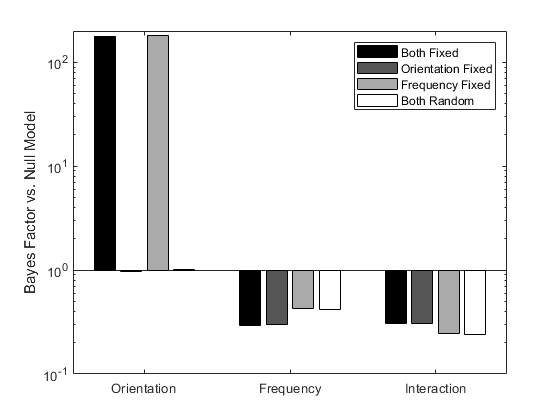
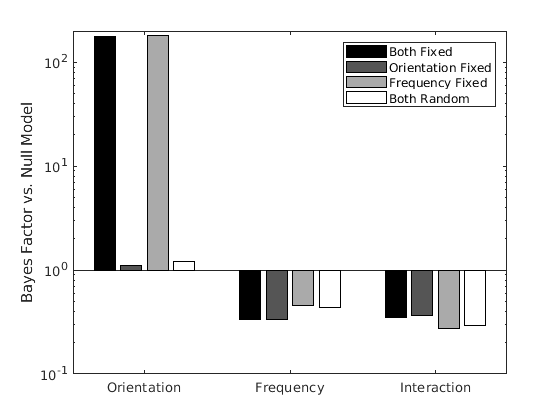
Updated documentation

diff --git a/docs/index.html b/docs/index.html
@@ -6,7 +6,7 @@
    <!--
 This HTML was auto-generated from MATLAB code.
 To make changes, update the MATLAB code and republish this document.
-      --><title>Getting Started with the bayesFactor Toolbox</title><meta name="generator" content="MATLAB 9.5"><link rel="schema.DC" href="http://purl.org/dc/elements/1.1/"><meta name="DC.date" content="2019-01-28"><meta name="DC.source" content="gettingStarted.m"><style type="text/css">
+      --><title>Getting Started with the bayesFactor Toolbox</title><meta name="generator" content="MATLAB 9.6"><link rel="schema.DC" href="http://purl.org/dc/elements/1.1/"><meta name="DC.date" content="2019-11-30"><meta name="DC.source" content="gettingStarted.m"><style type="text/css">
 html,body,div,span,applet,object,iframe,h1,h2,h3,h4,h5,h6,p,blockquote,pre,a,abbr,acronym,address,big,cite,code,del,dfn,em,font,img,ins,kbd,q,s,samp,small,strike,strong,sub,sup,tt,var,b,u,i,center,dl,dt,dd,ol,ul,li,fieldset,form,label,legend,table,caption,tbody,tfoot,thead,tr,th,td{margin:0;padding:0;border:0;outline:0;font-size:100%;vertical-align:baseline;background:transparent}body{line-height:1}ol,ul{list-style:none}blockquote,q{quotes:none}blockquote:before,blockquote:after,q:before,q:after{content:'';content:none}:focus{outine:0}ins{text-decoration:none}del{text-decoration:line-through}table{border-collapse:collapse;border-spacing:0}
 
 html { min-height:100%; margin-bottom:1px; }
@@ -66,7 +66,7 @@ table td { padding:7px 5px; text-align:left; vertical-align:top; border:1px soli
 
 
 
-  </style></head><body><div class="content"><h1>Getting Started with the bayesFactor Toolbox</h1><!--introduction--><!--/introduction--><h2>Contents</h2><div><ul><li><a href="#1">Description</a></li><li><a href="#2">Authors &amp; Sources</a></li><li><a href="#3">System Requirements</a></li><li><a href="#4">Features</a></li><li><a href="#5">Installation</a></li><li><a href="#6">Examples</a></li><li><a href="#7">Single sample T-Test</a></li><li><a href="#9">Paired T-Test</a></li><li><a href="#12">ANOVA</a></li><li><a href="#19">Figures from Rouder et al. 2012</a></li><li><a href="#22">Bayes Factor Design Analysis - Figures from Schoenbrodt &amp; Wagenmakers</a></li></ul></div><h2 id="1">Description</h2><p>Bayesian statistical analysis can help to design experiments that lead to compelling evidence and to quantify the evidence in favor or against a  hypothesis, based on a dataset.</p><p>This toolbox provides easy-to-use functions to replace (or complement) standard tools for experimental design (e.g. power analysis)  and hypothesis testing (e.g. ttest, anova).</p><h2 id="2">Authors &amp; Sources</h2><p>The code was written by Bart Krekelberg (<a href="mailto:bart@vision.rutgers.edu">bart@vision.rutgers.edu</a>) with some code taken from Sam Schwarzkopf's code and with inspiration from the R package by Richard Morey.</p><p>The mathematical underpinning of these analyzes can be found in the following papers:</p><div><ul><li>Rouder, J. N., Morey, R. D., Speckman, P. L. &amp; Province, J. M. Default Bayes factors for ANOVA designs. J. Math. Psychol. 56, 356&#8211;374 (2012).</li><li>Kass, R. E. &amp; Raftery, A. E. Bayes factors. J. Am. Stat. Soc. 90, 733&#8211;795 (1995).</li><li>Morey, R. D. &amp; Wagenmakers, E. J. Simple relation between Bayesian order-restricted and point-null hypothesis tests. Stat. Probab. Lett. 92, 121&#8211;124 (2014).</li><li>Schoenbrodt, F. D. &amp; Wagenmakers, E. J. Bayes factor design analysis: Planning for compelling evidence. Psychon. Bull. Rev. 1&#8211;15 (2017). doi:10.3758/s13423-017-1230-y</li></ul></div><h2 id="3">System Requirements</h2><p>This toolbox depends on the Mathworks &lt;https://www.mathworks.com/products/statistics.html Statistics and Machine Learning Toolbox &gt;</p><h2 id="4">Features</h2><p>Currently the following statistical tests have been implemented</p><div><ul><li>One sample t-test  (<tt>bf.ttest</tt>)</li><li>Two sample t-test (<tt>bf.ttest2</tt>)</li><li>N-Way Anova with fixed and random effects  (<tt>bf.anova</tt>)</li><li>Pearson Correlation  (<tt>bf.corr</tt>)</li><li>Binomial Test  (<tt>bf.binom</tt>)</li></ul></div><p>The |bf.designAnalysis |function is used to analyze experimental design (e.g. "power analysis").</p><pre>Note how all user accessible functions in this toolbox are defined inside the 'bf'
+  </style></head><body><div class="content"><h1>Getting Started with the bayesFactor Toolbox</h1><!--introduction--><!--/introduction--><h2>Contents</h2><div><ul><li><a href="#1">Description</a></li><li><a href="#2">Authors &amp; Sources</a></li><li><a href="#3">System Requirements</a></li><li><a href="#4">Features</a></li><li><a href="#5">Installation</a></li><li><a href="#6">Examples</a></li><li><a href="#7">Single sample T-Test</a></li><li><a href="#9">Paired T-Test</a></li><li><a href="#12">ANOVA</a></li><li><a href="#19">Repeated Measurements</a></li><li><a href="#25">Figures from Rouder et al. 2012</a></li><li><a href="#28">Bayes Factor Design Analysis - Figures from Schoenbrodt &amp; Wagenmakers</a></li></ul></div><h2 id="1">Description</h2><p>Bayesian statistical analysis can help to design experiments that lead to compelling evidence and to quantify the evidence in favor or against a  hypothesis, based on a dataset.</p><p>This toolbox provides easy-to-use functions to replace (or complement) standard tools for experimental design (e.g. power analysis)  and hypothesis testing (e.g. ttest, anova).</p><h2 id="2">Authors &amp; Sources</h2><p>The code was written by Bart Krekelberg (<a href="mailto:bart@vision.rutgers.edu">bart@vision.rutgers.edu</a>) with some code taken from Sam Schwarzkopf's code and with inspiration from the R package by Richard Morey.</p><p>The mathematical underpinning of these analyzes can be found in the following papers:</p><div><ul><li>Rouder, J. N., Morey, R. D., Speckman, P. L. &amp; Province, J. M. Default Bayes factors for ANOVA designs. J. Math. Psychol. 56, 356?374 (2012).</li><li>Kass, R. E. &amp; Raftery, A. E. Bayes factors. J. Am. Stat. Soc. 90, 733?795 (1995).</li><li>Morey, R. D. &amp; Wagenmakers, E. J. Simple relation between Bayesian order-restricted and point-null hypothesis tests. Stat. Probab. Lett. 92, 121?124 (2014).</li><li>Schoenbrodt, F. D. &amp; Wagenmakers, E. J. Bayes factor design analysis: Planning for compelling evidence. Psychon. Bull. Rev. 1?15 (2017). doi:10.3758/s13423-017-1230-y</li></ul></div><h2 id="3">System Requirements</h2><p>This toolbox depends on the Mathworks &lt;https://www.mathworks.com/products/statistics.html Statistics and Machine Learning Toolbox &gt;</p><h2 id="4">Features</h2><p>Currently the following statistical tests have been implemented</p><div><ul><li>One sample t-test  (<tt>bf.ttest</tt>)</li><li>Two sample t-test (<tt>bf.ttest2</tt>)</li><li>N-Way Anova with fixed and random effects  (<tt>bf.anova</tt>)</li><li>Pearson Correlation  (<tt>bf.corr</tt>)</li><li>Binomial Test  (<tt>bf.binom</tt>)</li></ul></div><p>The |bf.designAnalysis |function is used to analyze experimental design (e.g. "power analysis").</p><pre>Note how all user accessible functions in this toolbox are defined inside the 'bf'
 package. This avoids naming conflicts with the standard ttest, ttest2 , etc functions.</pre><p>Function inside bf.internal are not meant to be called  directly.</p><h2 id="5">Installation</h2><p>Place all files and folders in their own folder (e.g. bayesFactor) and then add that folder to your Matlab search path.</p><p>The <tt>installBayesFactor.m</tt> function willl do this for you.</p><h2 id="6">Examples</h2><p>These examples build on the examples used in the Statistics and Machine Learning Toolbox for traditional (frequentist) hypothesis testing and shows how they can be complemented with Bayesian analysis.</p><h2 id="7">Single sample T-Test</h2><pre class="codeinput">load <span class="string">stockreturns</span>
 [bf10,p] = bf.ttest(stocks(:,3))
 </pre><pre class="codeoutput">
@@ -116,42 +116,92 @@ ans =
 </pre><pre class="codeoutput">
 bfFull =
 
-   12.2025
+   16.1940
 
 </pre><p>To specifically look at the evidence for a main effect of orientation, we need to compare the Bayes Factor of the full model to a restricted model in which everything except the main effect of orientation is kept.</p><pre class="codeinput">bfRestricted  =   bf.anova(data,<span class="string">'rt~freq +ori:freq'</span>);  <span class="comment">% Keep main of freq and ori:freq interaction.</span>
 </pre><p>The evidence for the main effect is the ratio of the Bayes Factors.</p><pre class="codeinput">bfMain = bfFull/bfRestricted
 </pre><pre class="codeoutput">
 bfMain =
 
-  177.2155
+  177.8409
 
-</pre><p>The evidence is overwhelmingly in favor of a main effect of orientation.</p><h2 id="19">Figures from Rouder et al. 2012</h2><p>Much of the mathematical basis for this package is developed in the Rouder et al. paper. To test the package, I recreated some of the figures in their publication.</p><p>Figure 2 in Rouder et al compares critical T-values for a traditional t-test with a Bayes Factor analysis.</p><pre class="codeinput">rouderFigure2;
+</pre><p>The evidence is overwhelmingly in favor of a main effect of orientation.</p><h2 id="19">Repeated Measurements</h2><p>The experiment Rouder et al describe took repeated measurements from the same subject (for each orientation and frequency), but this is not used in the analysis above. If there was large intersubject variability (e.g. some subjects have an overall slow reaction time) then this could reduce the power of the statistical test to detect an effect of orientation. In the example data set there isn't much variation across subjects, so let's introduce some variation to illustrate this.</p><pre class="codeinput">load <span class="string">rouder2012Data</span>
+slowSubjects = ismember(data.subject,[1 4 6]); <span class="comment">% Lets make subjects 1 4 and 6 slower overall by 0.25s .</span>
+data{slowSubjects,<span class="string">'rt'</span>} = data.rt(slowSubjects)+0.25;
+</pre><p>Calculate the BF and LMM model again</p><pre class="codeinput">[bfFull,modelFull] = bf.anova(data,<span class="string">'rt~ori*freq'</span>);
+bfFull
+anova(modelFull)
+</pre><pre class="codeoutput">
+bfFull =
+
+    0.4967
+
+
+ans = 
+
+
+    ANOVA MARGINAL TESTS: DFMETHOD = 'RESIDUAL'
+
+    Term                 FStat      DF1    DF2    pValue    
+    '(Intercept)'         276.89    1      36     1.7466e-18
+    'ori'                 2.9474    1      36       0.094611
+    'freq'               0.87453    1      36        0.35594
+    'ori:freq'           0.31648    1      36        0.57722
+
+</pre><p>That does not seem right; we did not change how orientation affects RT and yet both the BF and the anova show that the effect is no longer significant.</p><p>Of course, what is missing is a repeated measures approach. With linear mixed models this is done by including an extra term in the model that captures the idiosyncratic offset in the RT for each subject. In the Wilcoxon formula this is written as (1|subject) : fit a constant term (1) for each level of subject.</p><pre class="codeinput">[bfFull,modelFull] = bf.anova(data,<span class="string">'rt~ori*freq + (1|subject)'</span>);
+bfFull
+anova(modelFull)
+</pre><pre class="codeoutput">
+bfFull =
+
+   10.4030
+
+
+ans = 
+
+
+    ANOVA MARGINAL TESTS: DFMETHOD = 'RESIDUAL'
+
+    Term                 FStat     DF1    DF2    pValue    
+    '(Intercept)'        276.89    1      36     1.7466e-18
+    'ori'                5.8533    1      36       0.020727
+    'freq'               1.7367    1      36        0.19588
+    'ori:freq'           0.6285    1      36         0.4331
+
+</pre><p>This shows that after including the intercept term for subjects, the Bayes Factor is increased substantially (as are the F values in the ANOVA).</p><p>Isolating a main effect while using hte repeated measures aspect of the design works analogously:</p><pre class="codeinput">bfRestricted  =   bf.anova(data,<span class="string">'rt~freq +ori:freq + (1|subject)'</span>);
+</pre><p>The evidence for the main effect is the ratio of the Bayes Factors. the difference withbefore is that now both BF have been calculated with the subject random intercept.</p><pre class="codeinput">bfMain = bfFull/bfRestricted
+</pre><pre class="codeoutput">
+bfMain =
+
+  113.8507
+
+</pre><h2 id="25">Figures from Rouder et al. 2012</h2><p>Much of the mathematical basis for this package is developed in the Rouder et al. paper. To test the package, I recreated some of the figures in their publication.</p><p>Figure 2 in Rouder et al compares critical T-values for a traditional t-test with a Bayes Factor analysis.</p><pre class="codeinput">rouderFigure2;
 </pre><img vspace="5" hspace="5" src="gettingStarted_01.png" alt=""> <p>Figure 4 shows Bayes Factor analysis for simulated data with different effect sizes.</p><pre class="codeinput">rouderFigure4(100); <span class="comment">% Use 1000 bootstrap sets .</span>
 </pre><img vspace="5" hspace="5" src="gettingStarted_02.png" alt=""> <p>Figure 5 illustrates the influence of fixed and random effects</p><pre class="codeinput">rouderFigure5;
-</pre><img vspace="5" hspace="5" src="gettingStarted_03.png" alt=""> <h2 id="22">Bayes Factor Design Analysis - Figures from Schoenbrodt &amp; Wagenmakers</h2><p>This paper provides a tutorial treatment of Bayes Factor Design Analysis.  Please see <tt>schoenbrodtFigures.m</tt> for details.</p><pre class="codeinput"><span class="comment">% Figure 3 in S&amp;W analyzes a Fixed-N design for a T-test.</span>
+</pre><img vspace="5" hspace="5" src="gettingStarted_03.png" alt=""> <h2 id="28">Bayes Factor Design Analysis - Figures from Schoenbrodt &amp; Wagenmakers</h2><p>This paper provides a tutorial treatment of Bayes Factor Design Analysis.  Please see <tt>schoenbrodtFigures.m</tt> for details.</p><pre class="codeinput"><span class="comment">% Figure 3 in S&amp;W analyzes a Fixed-N design for a T-test.</span>
 schoenbrodtFigures(3,1000); <span class="comment">% 10000 Monte Carlo sims</span>
 </pre><pre class="codeoutput">***************
 N = 20  100
-False Positives (%): 0.8         0.3
-False Negatives (%): 1.4           0
-True Positives (%) 22         83.5
-True Negatives (%) 20.2         54.8
+False Positives (%): 0.9           1
+False Negatives (%): 0.8           0
+True Positives (%) 18.7         84.8
+True Negatives (%) 19.6         53.2
 **************
 Necessary sample size for 95% success under H1 is Inf
-False Positives (%): 0.6         0.4         0.4         0.3         0.3         0.2         0.5         0.4         0.6         0.4         0.6         0.2         0.4
-False Negatives (%): 0.1           0           0           0           0           0           0           0           0           0           0         0.1           0
-True negative  (%): 53.6         55.3         59.7         62.6         61.4         63.5         61.9         61.9         62.7         63.4         61.6         61.2         63.3
+False Positives (%): 0.8         0.9         0.3         0.6         0.4         0.8         0.7         0.4         0.4         0.8         0.6         0.5         0.2
+False Negatives (%): 0           0           0           0           0           0           0           0         0.1           0           0           0           0
+True negative  (%): 54.7           56         64.9           61         61.2           63         62.5         64.7         59.6         61.4         64.1         60.6         64.9
 </pre><img vspace="5" hspace="5" src="gettingStarted_04.png" alt=""> <p>Figure 4 in S&amp;@ analyzes a Bayes sequential sampling design.</p><pre class="codeinput">schoenbrodtFigures(4,1000); <span class="comment">% 10000 Monte Carlo sims</span>
-</pre><pre class="codeoutput">False Positive Rate: 87%
-False Negative Rate: 1.3%
+</pre><pre class="codeoutput">False Positive Rate: 84.7%
+False Negative Rate: 1.8%
 Median Sample Size (H1): 35
-Median Sample Size (H0): 42
+Median Sample Size (H0): 45
 </pre><img vspace="5" hspace="5" src="gettingStarted_05.png" alt=""> <p>Figure 5 refines the Sequential design analysis</p><pre class="codeinput">schoenbrodtFigures(5,1000); <span class="comment">% 10000 Monte Carlo sims</span>
-</pre><pre class="codeoutput">False Positive Rate: 70.4%
-False Negative Rate: 0.7%
-Median Sample Size (H1): 66
-Median Sample Size (H0): 55
-</pre><img vspace="5" hspace="5" src="gettingStarted_06.png" alt=""> <p class="footer"><br><a href="https://www.mathworks.com/products/matlab/">Published with MATLAB&reg; R2018b</a><br></p></div><!--
+</pre><pre class="codeoutput">False Positive Rate: 72.3%
+False Negative Rate: 0.8%
+Median Sample Size (H1): 68.5
+Median Sample Size (H0): 55.5
+</pre><img vspace="5" hspace="5" src="gettingStarted_06.png" alt=""> <p class="footer"><br><a href="https://www.mathworks.com/products/matlab/">Published with MATLAB&reg; R2019a</a><br></p></div><!--
 ##### SOURCE BEGIN #####
 %% Getting Started with the bayesFactor Toolbox
 %% Description
@@ -171,13 +221,13 @@ Median Sample Size (H0): 55
 % papers:
 % 
 % *  Rouder, J. N., Morey, R. D., Speckman, P. L. & Province, J. M. Default 
-% Bayes factors for ANOVA designs. J. Math. Psychol. 56, 356–374 (2012).
-% *  Kass, R. E. & Raftery, A. E. Bayes factors. J. Am. Stat. Soc. 90, 733–795 
+% Bayes factors for ANOVA designs. J. Math. Psychol. 56, 356?374 (2012).
+% *  Kass, R. E. & Raftery, A. E. Bayes factors. J. Am. Stat. Soc. 90, 733?795 
 % (1995).
 % *  Morey, R. D. & Wagenmakers, E. J. Simple relation between Bayesian order-restricted 
-% and point-null hypothesis tests. Stat. Probab. Lett. 92, 121–124 (2014).
+% and point-null hypothesis tests. Stat. Probab. Lett. 92, 121?124 (2014).
 % *  Schoenbrodt, F. D. & Wagenmakers, E. J. Bayes factor design analysis: Planning 
-% for compelling evidence. Psychon. Bull. Rev. 1–15 (2017). doi:10.3758/s13423-017-1230-y
+% for compelling evidence. Psychon. Bull. Rev. 1?15 (2017). doi:10.3758/s13423-017-1230-y
 %% System Requirements 
 % This toolbox depends on the Mathworks <https://www.mathworks.com/products/statistics.html 
 % Statistics and Machine Learning Toolbox >
@@ -273,7 +323,59 @@ bfMain = bfFull/bfRestricted
 %% 
 % The evidence is overwhelmingly in favor of a main effect of orientation.
 % 
-%     
+% 
+
+%% Repeated Measurements
+%%
+% The experiment Rouder et al describe took repeated measurements from the
+% same subject (for each orientation and frequency), but this is not used
+% in the analysis above. If there was large intersubject variability
+% (e.g. some subjects have an overall slow reaction time) then this could reduce 
+% the power of the statistical test to detect an effect of orientation. In
+% the example data set there isn't much variation across subjects, so let's
+% introduce some variation to illustrate this.
+
+load rouder2012Data
+slowSubjects = ismember(data.subject,[1 4 6]); % Lets make subjects 1 4 and 6 slower overall by 0.25s .
+data{slowSubjects,'rt'} = data.rt(slowSubjects)+0.25; 
+
+%%
+% Calculate the BF and LMM model again
+[bfFull,modelFull] = bf.anova(data,'rt~ori*freq');
+bfFull
+anova(modelFull)
+
+%%
+% That does not seem right; we did not change how orientation affects RT 
+% and yet both the BF and the anova show that the effect is no
+% longer significant. 
+%
+% Of course, what is missing is a repeated measures approach. With linear mixed models
+% this is done by including an extra term in the model that captures the
+% idiosyncratic offset in the RT for each subject. In the Wilcoxon formula
+% this is written as (1|subject) : fit a constant term (1) for each level
+% of subject.
+
+[bfFull,modelFull] = bf.anova(data,'rt~ori*freq + (1|subject)');
+bfFull
+anova(modelFull)
+
+%%
+% This shows that after including the intercept term for subjects, the
+% Bayes Factor is increased substantially (as are the F values in the ANOVA).
+%
+% Isolating a main effect while using hte repeated measures aspect of the design
+% works analogously:
+
+bfRestricted  =   bf.anova(data,'rt~freq +ori:freq + (1|subject)');  
+
+%% 
+% The evidence for the main effect is the ratio of the Bayes Factors. 
+% the difference withbefore is that now both BF have been calculated with
+% the subject random intercept.
+
+bfMain = bfFull/bfRestricted
+
 %% Figures from Rouder et al. 2012
 % Much of the mathematical basis for this package is developed in the Rouder 
 % et al. paper. To test the package, I recreated some of the figures in their 

diff --git a/publishGitPages.m b/publishGitPages.m
@@ -1,5 +1,5 @@
 % Utility script to publish the gettingStarted.m script as index.html on
 % GitPages.
-options = struct('format','html','ouputDir','./docs/');
+options = struct('format','html','outputDir','./docs/');
 htmlDoc =publish('gettingStarted.m',options);
 movefile(htmlDoc,'./docs/index.html')
